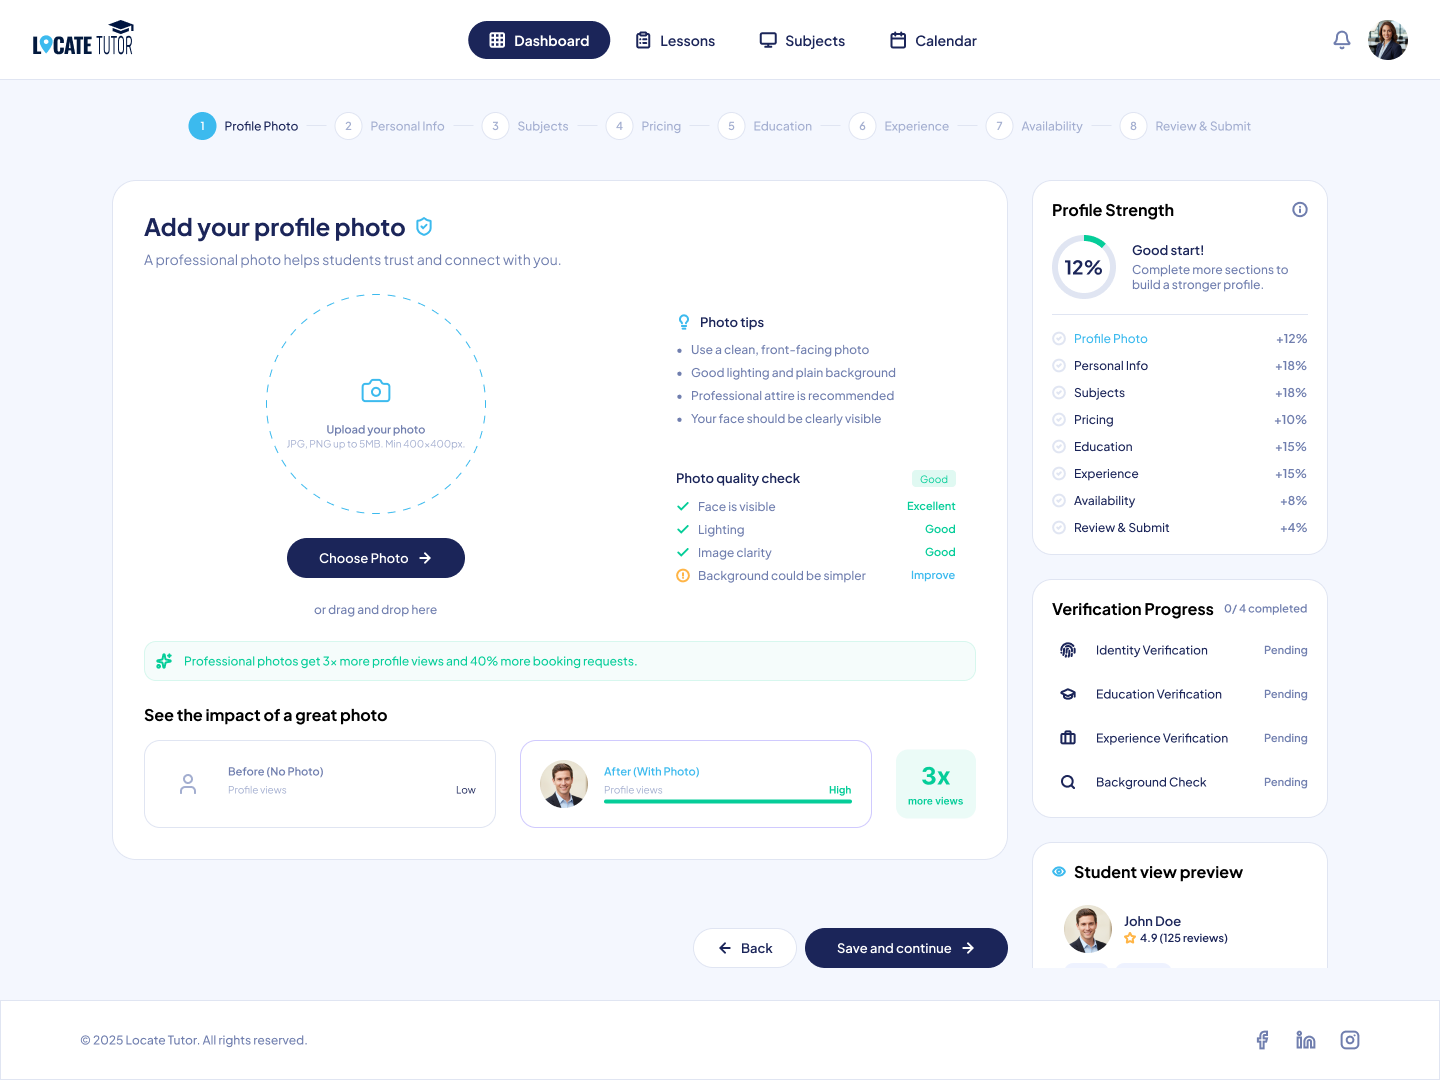
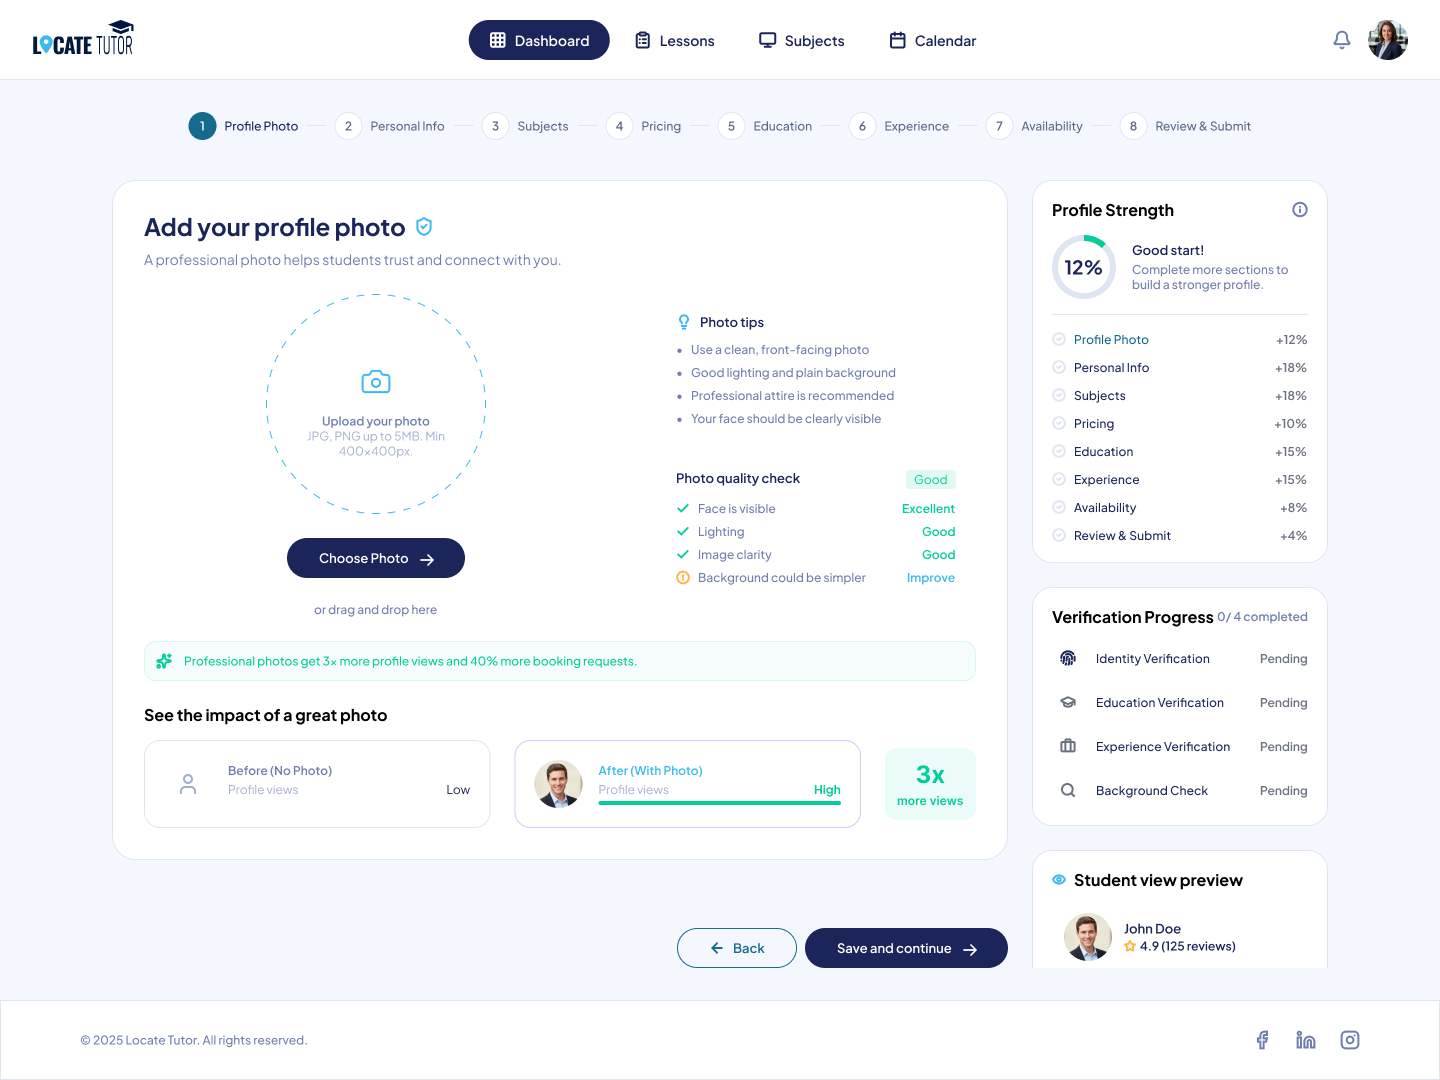
refresh Locate Tutors case study screens from live design
Re-export the seven case study screenshots from the LT Figma file so they
reflect the current design system: the darker brand teal that replaced
#3CBAEE for WCAG contrast, the darker success green, and the 12px minimum
type size.

tutor-onboarding-step7 and step9 previously showed a superseded 9-step
design (trust score, application timeline, blue accent). The case study
was therefore mixing two products, with the step tracker changing from 8
steps to 9 partway down the page.

Also render the tutor case study images at the prototype embed's fixed
height (h-[80vh] md:h-[800px]) with object-contain, so the screenshots
and the interactive prototype are presented at the same size.

diff --git a/src/components/ProjectBlocks.tsx b/src/components/ProjectBlocks.tsx
@@ -292,17 +292,17 @@ export const BlockRenderer = ({ block, accentColor, projectId }: { block: Projec
                                             {screen.description && <p className={`${bodyClass} mt-2 max-w-4xl`}>{screen.description}</p>}
                                         </div>
                                     </div>
-                                    <div className="rounded-[1.5rem] md:rounded-[2.5rem] p-4 md:p-6 lg:p-8 overflow-hidden shadow-sm bg-[#0d0d0d] group border border-white/10">
+                                    <div className={`rounded-[1.5rem] md:rounded-[2.5rem] p-4 md:p-6 lg:p-8 overflow-hidden shadow-sm bg-[#0d0d0d] group border border-white/10 ${isTutorScreens ? "h-[80vh] md:h-[800px] flex items-center justify-center" : ""}`}>
                                         {screen.image.endsWith('.mp4') ? (
                                             <LazyVideo
                                                 src={screen.image}
-                                                className="w-full h-auto block rounded-xl md:rounded-2xl transition-transform [transition-duration:2000ms] group-hover:scale-105"
+                                                className={`${isTutorScreens ? "max-h-full max-w-full w-auto h-auto object-contain" : "w-full h-auto"} block rounded-xl md:rounded-2xl transition-transform [transition-duration:2000ms] group-hover:scale-105`}
                                             />
                                         ) : (
                                             <img
                                                 src={screen.image}
                                                 alt={screen.title}
-                                                className="w-full h-auto block rounded-xl md:rounded-2xl transition-transform [transition-duration:2000ms] group-hover:scale-105"
+                                                className={`${isTutorScreens ? "max-h-full max-w-full w-auto h-auto object-contain" : "w-full h-auto"} block rounded-xl md:rounded-2xl transition-transform [transition-duration:2000ms] group-hover:scale-105`}
                                             />
                                         )}
                                     </div>
